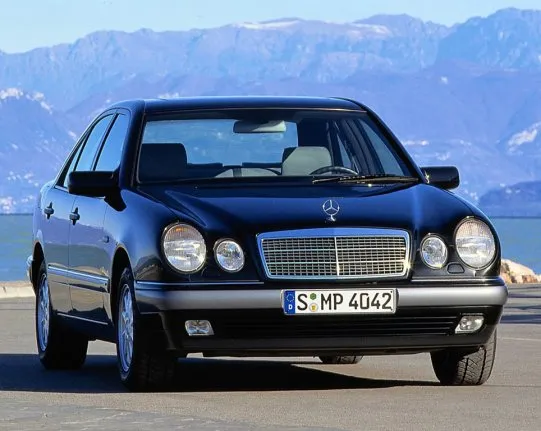
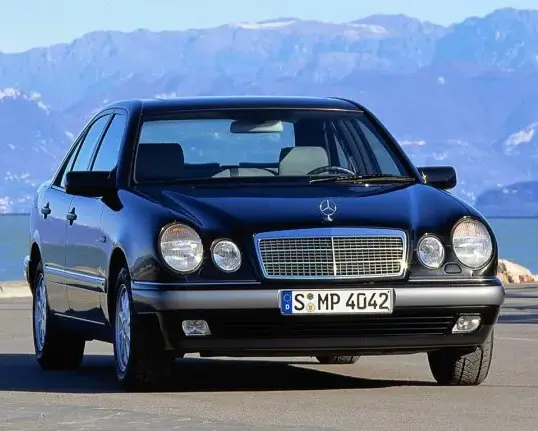
246

diff --git a/pic/ja_mb_img_e.html b/pic/ja_mb_img_e.html
@@ -651,7 +651,7 @@
 					</div>
 					<section>
 						<h4 class="displayNone">W210</h4>
-						<a href="full/e/w210_f.jpg"><img loading="lazy" src="style/e/w210_f.webp" alt="メルセデス,W210,Eクラス,フロント" width="541" height="431"></a>
+						<a href="full/e/w210_f.jpg"><img loading="lazy" src="style/e/w210_f.webp" alt="メルセデス,W210,Eクラス,フロント" width="538" height="431"></a>
 						<a href="full/e/w210_d.jpg"><img loading="lazy" src="style/e/w210_d.webp" alt="メルセデス,W210,Eクラス,ダッシュボード" width="666" height="431"></a><br>
 						<div>
 							<div class="box52a">

diff --git a/pic/mb_img_e.html b/pic/mb_img_e.html
@@ -651,7 +651,7 @@
 					</div>
 					<section>
 						<h4 class="displayNone">W210</h4>
-						<a href="full/e/w210_f.jpg"><img loading="lazy" src="style/e/w210_f.webp" alt="Mercedes,W210,E-klasse,Frontansicht" width="541" height="431"></a>
+						<a href="full/e/w210_f.jpg"><img loading="lazy" src="style/e/w210_f.webp" alt="Mercedes,W210,E-klasse,Frontansicht" width="538" height="431"></a>
 						<a href="full/e/w210_d.jpg"><img loading="lazy" src="style/e/w210_d.webp" alt="Mercedes,W210,E-klasse,Instrumententafel" width="666" height="431"></a><br>
 						<div>
 							<div class="box52a">

diff --git a/pic/en_mb_img_e.html b/pic/en_mb_img_e.html
@@ -651,7 +651,7 @@
 					</div>
 					<section>
 						<h4 class="displayNone">W210</h4>
-						<a href="full/e/w210_f.jpg"><img loading="lazy" src="style/e/w210_f.webp" alt="Mercedes,W210,E-class,Front view" width="541" height="431"></a>
+						<a href="full/e/w210_f.jpg"><img loading="lazy" src="style/e/w210_f.webp" alt="Mercedes,W210,E-class,Front view" width="538" height="431"></a>
 						<a href="full/e/w210_d.jpg"><img loading="lazy" src="style/e/w210_d.webp" alt="Mercedes,W210,E-class,Dashboard" width="666" height="431"></a><br>
 						<div>
 							<div class="box52a">
